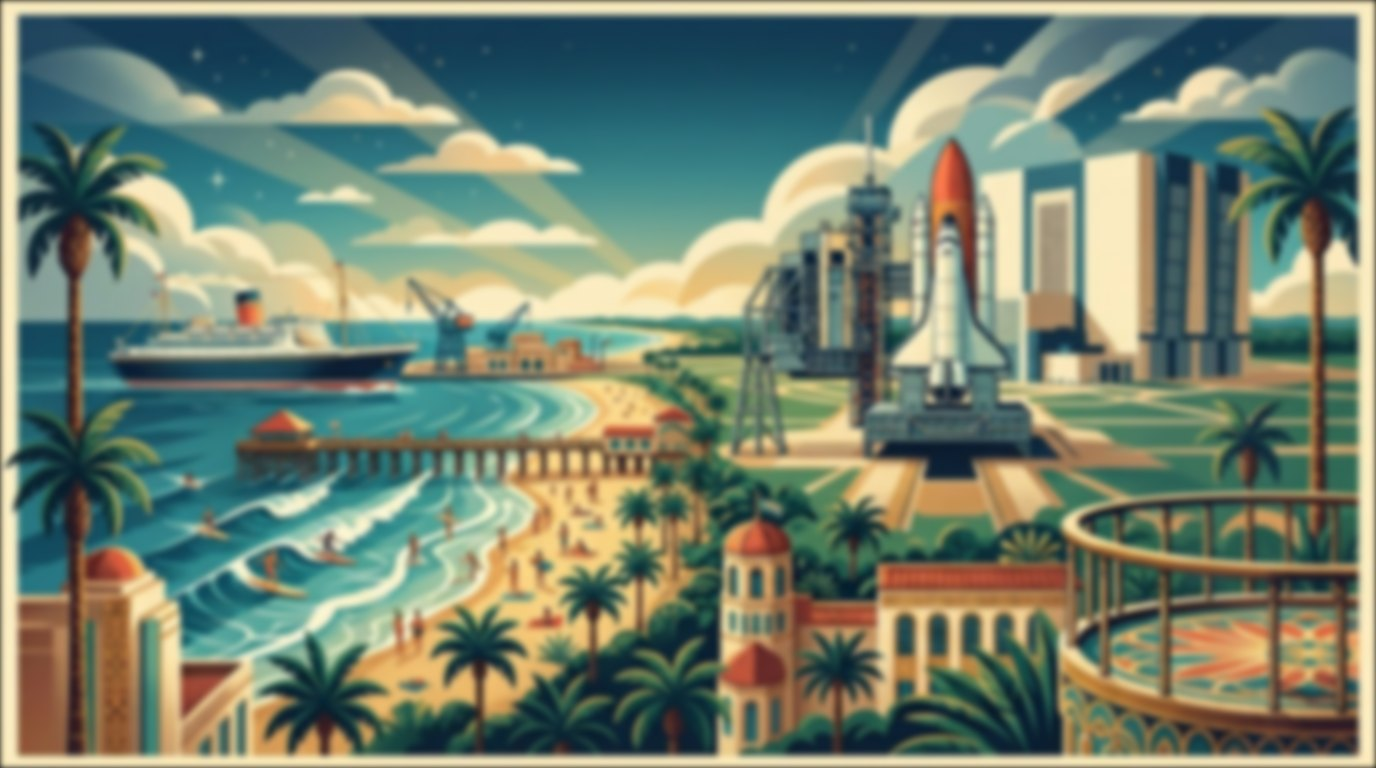
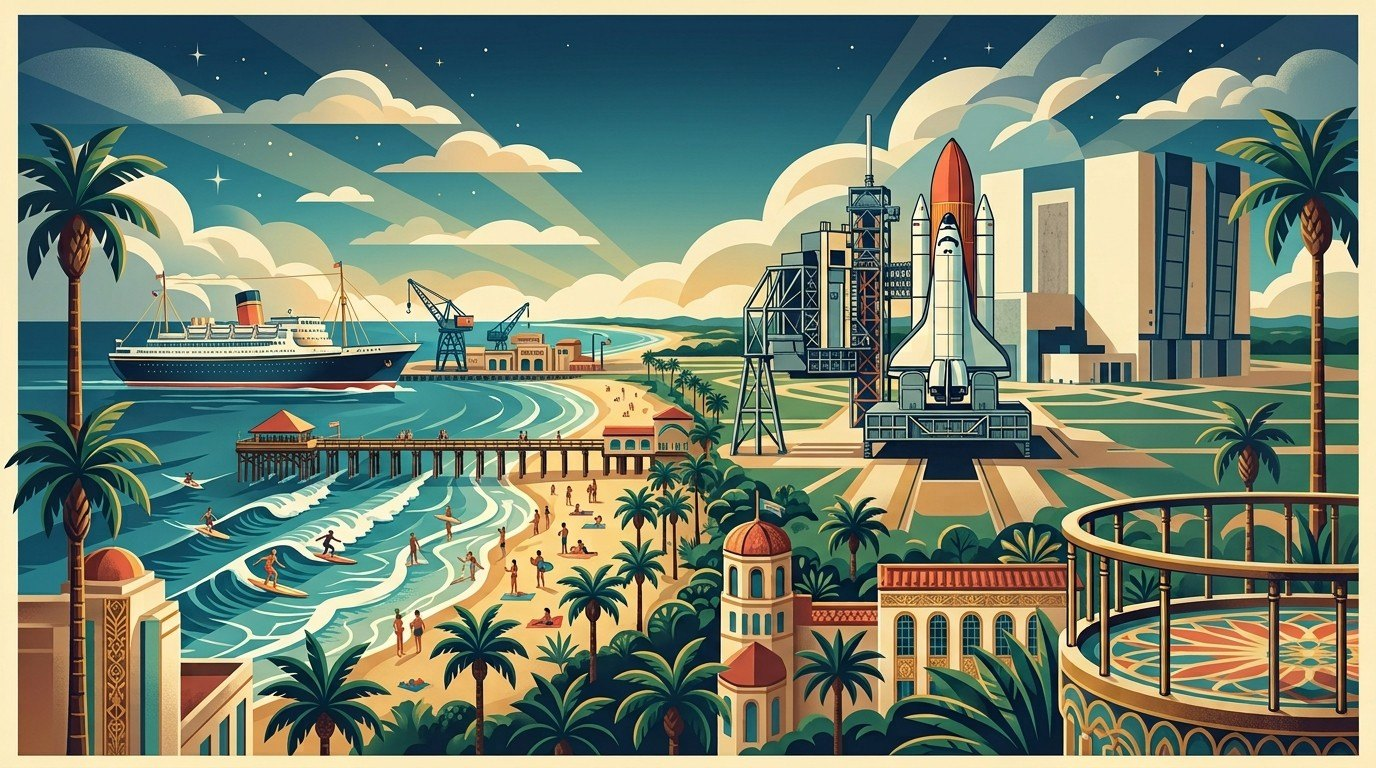
Un golpe ya no devuelve al checkpoint, y los fondos van sin desenfoque
Recibir un golpe deja al nino donde estaba, parpadeando un momento. Al checkpoint
se vuelve solo cuando se acaban los corazones y quedan vidas, o al caerse por un
hueco, que ahi no hay donde quedarse parpadeando.

Y los fondos de las cinco ciudades van ya tal cual los dibujaron, sin tocarles
ni el color ni el enfoque. Con el lienzo a mas pixeles y el contorno de tinta
separando todo lo de delante, no hace falta emborronar la ilustracion para que
se distinga el juego. Pesan mas (de 139 a 446 KB la mas cargada), que es lo que
cuesta.

Las 35 pruebas pasan.

diff --git a/src/escenas/EscenaNivel.js b/src/escenas/EscenaNivel.js
@@ -8,7 +8,7 @@
 // ---------------------------------------------------------------------------
 
 import Phaser from 'phaser';
-import { AGUA, CAMARA, ENEMIGO, JEFE, LANZAMIENTO, MUNDO, PALOMA, PUNTOS, RENDER, VIDA } from '../config/ajustes.js';
+import { AGUA, CAMARA, ENEMIGO, JEFE, JUGADOR, LANZAMIENTO, MUNDO, PALOMA, PUNTOS, RENDER, VIDA } from '../config/ajustes.js';
 import { COLORES, TEXTURAS } from '../config/estilo.js';
 import { PERSONAJES } from '../config/personajes.js';
 import { Controles, PERFILES } from '../sistemas/controles.js';
@@ -252,7 +252,10 @@ export class EscenaNivel extends Phaser.Scene {
 
       // caer por un hueco: no se pierde nada, se vuelve al checkpoint
       if (jugador.y > this.nivel.alto + 60) {
-        if (!this.herirJugador(jugador)) jugador.reaparecer();
+        // Caerse por un hueco es el unico golpe que obliga a volver: no hay
+        // donde quedarse parpadeando, se esta cayendo al vacio.
+        this.herirJugador(jugador, { devolverAlCheckpoint: true });
+        if (jugador.active) jugador.reaparecer();
       }
     });
 
@@ -333,7 +336,7 @@ export class EscenaNivel extends Phaser.Scene {
     });
   }
 
-  herirJugador(jugador) {
+  herirJugador(jugador, opciones = {}) {
     if (!jugador.herir()) return false;
 
     jugador.golpes += 1;
@@ -349,7 +352,13 @@ export class EscenaNivel extends Phaser.Scene {
     this.hud.animarCara(jugador);
     this.hud.animarCorazones(jugador);
 
-    if (jugador.corazones <= 0) this.perderVida(jugador);
+    if (jugador.corazones <= 0) {
+      this.perderVida(jugador);
+    } else if (opciones.devolverAlCheckpoint) {
+      this.time.delayedCall(JUGADOR.congelarAlHerirMs, () => {
+        if (jugador.active) jugador.reaparecer();
+      });
+    }
     return true;
   }
 
@@ -361,14 +370,11 @@ export class EscenaNivel extends Phaser.Scene {
 
     if (this.vidas > 0) {
       jugador.corazones = VIDA.corazonesPorNivel;
-
-    // Cada cuanto un bicho suelta corazon y una paloma una vida. Se guarda en
-    // la escena y no se lee de la constante para poder apagarlo desde las
-    // pruebas: con el azar suelto, medir cuantas monedas da un bicho era una
-    // moneda al aire.
-    this.probabilidadCorazon = VIDA.probabilidadCorazon;
-    this.probabilidadVidaExtra = VIDA.probabilidadVidaExtra;
       textoFlotante(this, jugador.x, jugador.y - 60, '¡Una vida menos!', '#ff6b6b');
+      // Aqui si se vuelve al ultimo checkpoint, con los corazones repuestos.
+      this.time.delayedCall(JUGADOR.congelarAlHerirMs, () => {
+        if (jugador.active) jugador.reaparecer();
+      });
       return;
     }
 

diff --git a/src/entidades/Jugador.js b/src/entidades/Jugador.js
@@ -230,7 +230,12 @@ export class Jugador extends Phaser.Physics.Arcade.Sprite {
     this.reaparicion = { x, y };
   }
 
-  // Devuelve true si el golpe ha contado.
+  // Le han dado. Devuelve true si el golpe ha contado.
+  //
+  // Un golpe NO devuelve al checkpoint: el nino se queda donde estaba,
+  // parpadeando un momento. Al checkpoint solo se vuelve cuando se acaban los
+  // corazones, o cuando se ha caido por un hueco y no hay donde quedarse; de
+  // eso se encarga la escena.
   herir() {
     if (this.esInvulnerable) return false;
 
@@ -238,10 +243,6 @@ export class Jugador extends Phaser.Physics.Arcade.Sprite {
     this.congeladoHasta = this.reloj + JUGADOR.congelarAlHerirMs;
     this.body.setVelocity(0, 0);
     this.parpadear(JUGADOR.invulnerabilidadMs);
-
-    this.escena.time.delayedCall(JUGADOR.congelarAlHerirMs, () => {
-      if (this.active) this.reaparecer();
-    });
     return true;
   }
 

diff --git a/CLAUDE.md b/CLAUDE.md
@@ -248,8 +248,10 @@ Filosofia: juego **generoso y sin castigos fuertes**.
   la escena (`probabilidadCorazon`, `probabilidadVidaExtra`) para poder apagarlo
   desde las pruebas.
 
-- Tocar un enemigo de lado o caer a un hueco: el personaje parpadea y reaparece en el
-  ultimo checkpoint. **No pierde monedas.**
+- Un golpe **no devuelve al checkpoint**: el nino se queda donde estaba,
+  parpadeando un momento. Al checkpoint solo se vuelve cuando se acaban los
+  corazones (y quedan vidas), o al caerse por un hueco, que ahi no hay donde
+  quedarse.
 - Saltar encima de un enemigo lo elimina.
 - Los enemigos eliminados desaparecen en una **nube de estrellitas**.
 - El jefe es el unico que aguanta mas de un golpe (tres), y tocarle de lado tampoco
@@ -436,8 +438,11 @@ dibuje nuevo deberia usarlos, para que el juego hable un solo idioma visual.
 - Todo el arte es **100% original** o de paquetes con **licencia libre** (Kenney, CC0).
 - **Prohibido** usar personajes, sprites, disenos, tipografias o musica de marcas o
   franquicias conocidas.
-- **Fondo actual:** ilustracion de un barrio de ladera con metrocable, aportada por
-  Daniel el 2026-09-22. No contiene marcas ni personajes de franquicias.
+- **Fondos:** las cinco ciudades van **tal cual**, sin tocarles color ni
+  enfoque. Lo que las manda al fondo es que se mueven despacio y que todo lo
+  de delante lleva contorno de tinta. Antes se les bajaba la saturacion
+  (quedaban lavadas) y luego se les dejaba un desenfoque (quedaban
+  emborronadas).
 - **Tipografia:** Chailce Noggin, de ripoof (2021), que da el aire de dibujo
   animado de los anos 30. No declara licencia en sus metadatos: si algun dia hay
   que sustituirla, es cambiar un archivo. Venia con 81 glifos y **sin acentos,
@@ -645,6 +650,12 @@ baja.
   mueven a mano en `sistemas/planos.js`, contra la esquina izquierda de lo
   visible, y se colocan en `prerender`: hacerlo en el `update` dejaba el HUD
   temblando un fotograma por detras.
+- **2026-09-23** — Un golpe deja al nino **donde estaba**, parpadeando, en vez
+  de devolverlo al checkpoint. Al checkpoint se vuelve solo al quedarse sin
+  corazones o al caer por un hueco.
+- **2026-09-23** — **Fuera el desenfoque de los fondos.** Con el lienzo a mas
+  pixeles y el contorno de tinta separando lo de delante, ya no hace falta
+  emborronar la ilustracion para que se distinga el juego.
 - **2026-09-23** — Todo dibujo recortado lleva ahora **contorno de tinta** por
   fuera, y los banderines de checkpoint y las puertas de salida van al **doble
   de tamano**, que pequenos no se leian. Ver la seccion 10.
